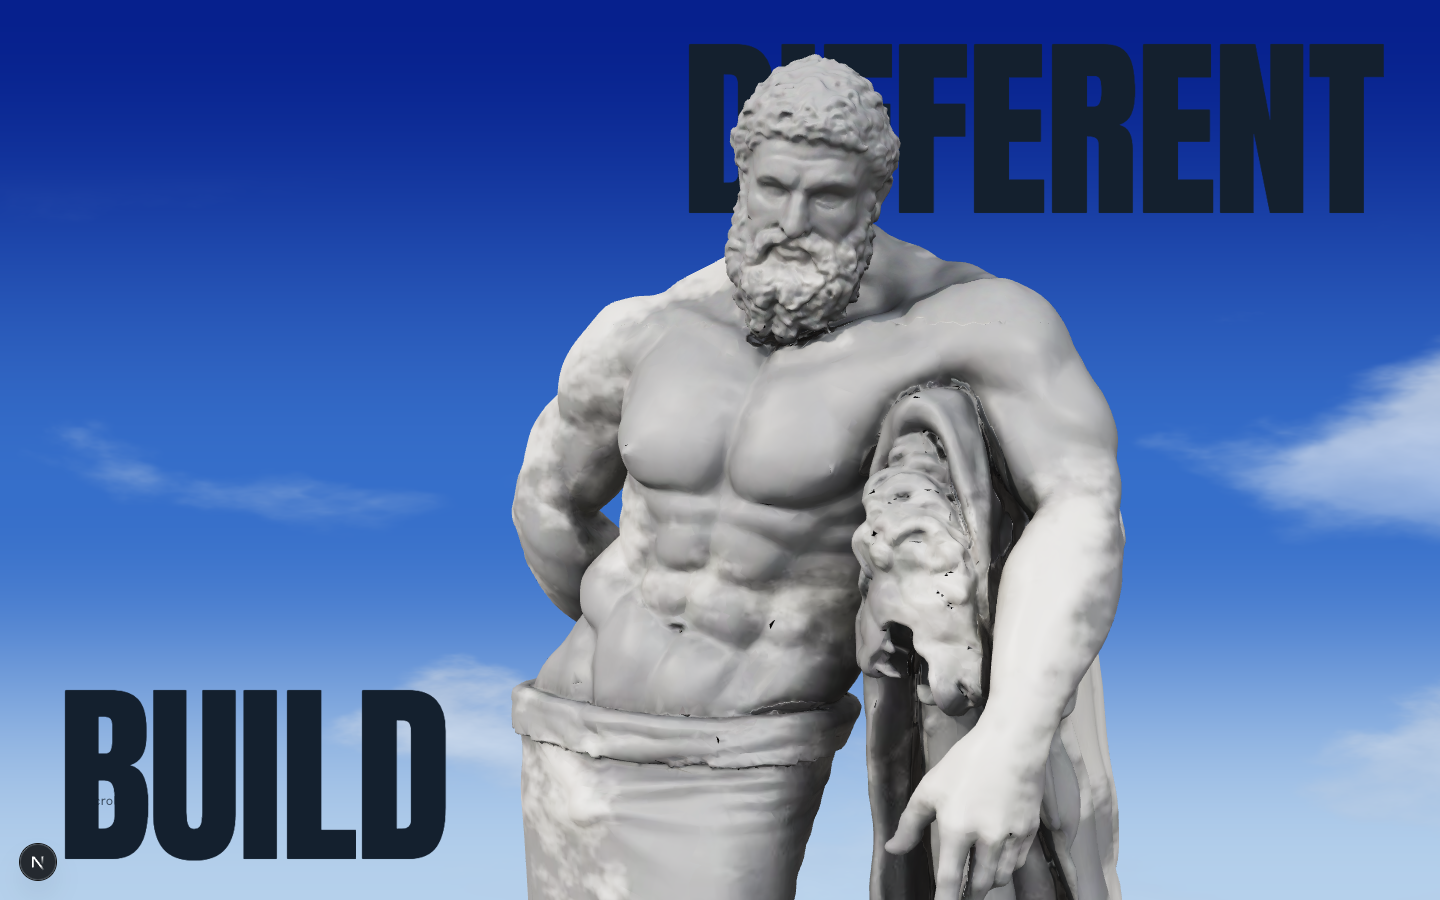
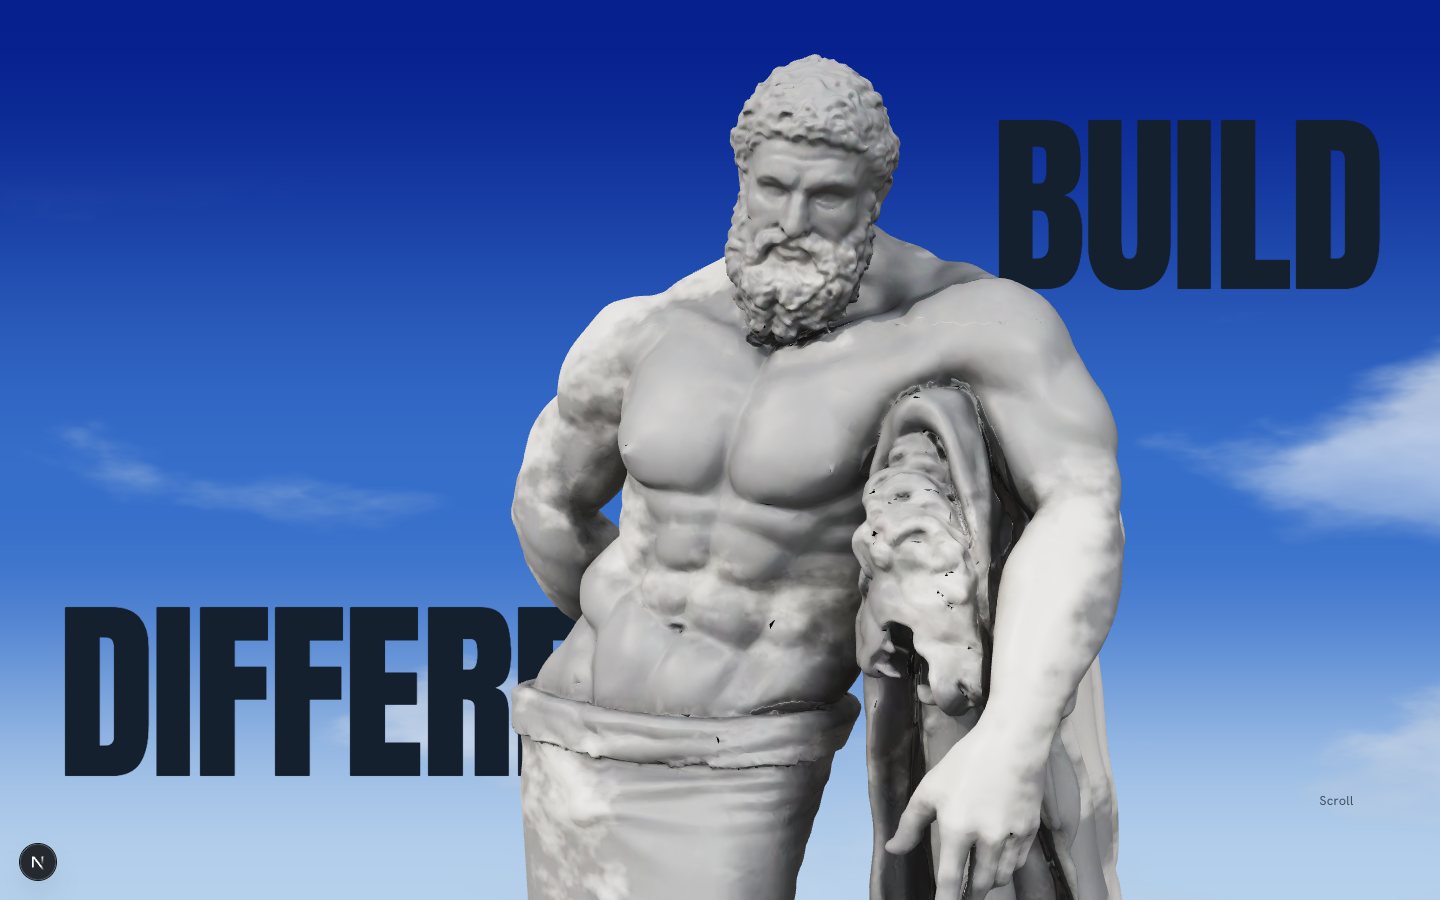
Wordmark: BUILD upper right, DIFFERENT lower left, pulled toward the middle
Claude-Session: https://claude.ai/code/session_01NAdPXLUXCGhh82qBsMYyAh

Changed region(s): [[0.4688, 0.0311, 0.9688, 0.3422], [0.0312, 0.6533, 0.4062, 0.9644]]

diff --git a/src/app/globals.css b/src/app/globals.css
@@ -145,7 +145,7 @@ body {
 .copy button {
   pointer-events: auto;
 }
-/* the opening frame: DIFFERENT top right, BUILD bottom left, in a heavy condensed grotesk.
+/* the opening frame: BUILD upper right, DIFFERENT lower left, pulled in toward the middle, in a heavy condensed grotesk.
    Letters rise out of a clipped line with a stagger, sharpening from a slight blur, then the words sit still. */
 .copy--wordmark {
   max-width: none;
@@ -167,11 +167,11 @@ body {
 }
 .copy--wordmark .word--top {
   right: clamp(1rem, 4vw, 4rem);
-  top: clamp(0.75rem, 3.5vw, 3.5rem);
+  top: 14svh;
 }
 .copy--wordmark .word--bottom {
   left: clamp(1rem, 4vw, 4rem);
-  bottom: clamp(0.5rem, 3vw, 3rem);
+  bottom: 14svh;
 }
 .copy--wordmark .letter {
   display: inline-block;

diff --git a/src/hero/lines.ts b/src/hero/lines.ts
@@ -1,7 +1,7 @@
 /** Every line of copy on the hero. Sentence case, plain, declarative. */
 export const COPY = {
   preloader: "Cutting the marble.",
-  wordmark: ["Different", "Build"],
+  wordmark: ["Build", "Different"],
   headline1: "We build things that age well.",
   block1: "Permanence used to take a quarry, a chisel and most of a lifetime. The brief has not changed. The material has.",
   block2: "Nothing on the internet is carved. Everything is rendered, and most of it is rendered badly.",
